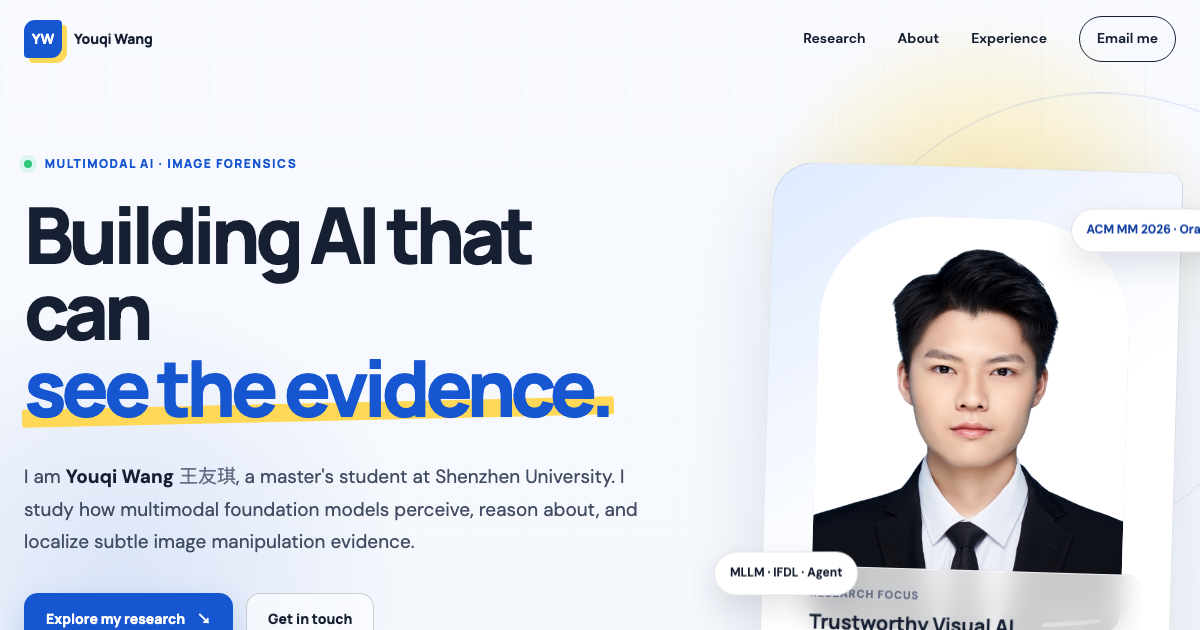
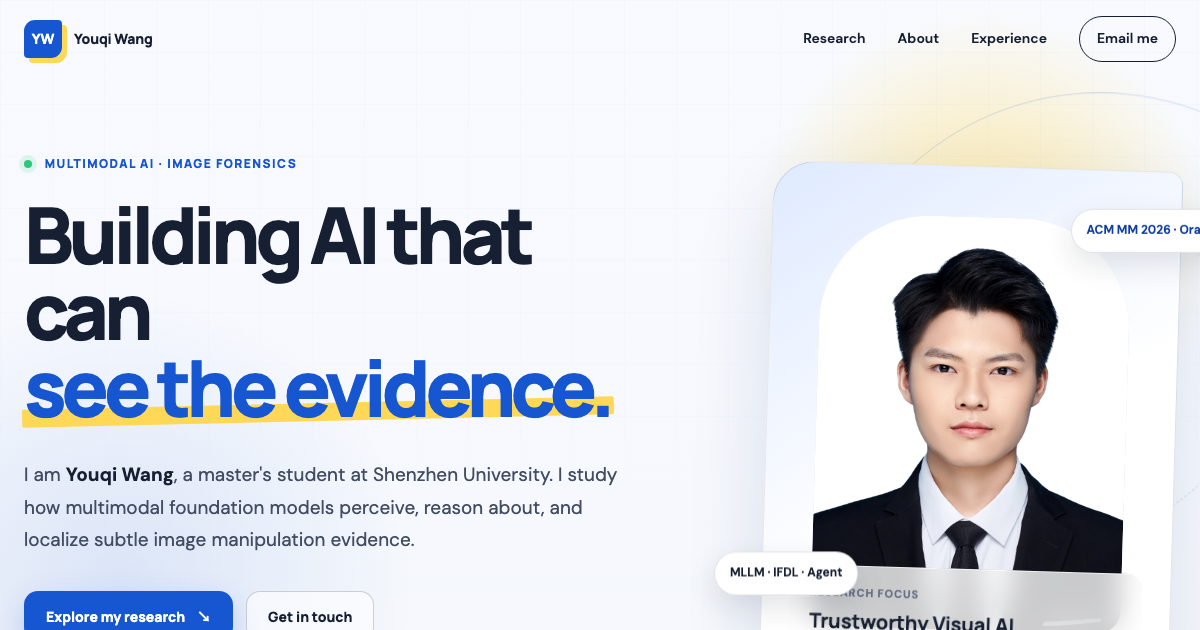
Refine horizontal research cards

diff --git a/styles.css b/styles.css
@@ -567,7 +567,7 @@ a {
 
 .project-featured {
   display: grid;
-  grid-template-columns: 1fr;
+  grid-template-columns: minmax(0, 1.08fr) minmax(390px, 0.92fr);
   border-radius: 32px 10px 32px 10px;
 }
 
@@ -619,7 +619,7 @@ a {
 }
 
 .project-media-blue {
-  min-height: 0;
+  min-height: 610px;
   padding: 34px;
   background: linear-gradient(145deg, #d9e8ff, #edf4ff);
 }
@@ -749,12 +749,8 @@ a {
 }
 
 .project-clue {
-  display: flex;
-  flex-direction: column;
-}
-
-.project-clue .project-media {
-  order: -1;
+  display: grid;
+  grid-template-columns: minmax(390px, 0.92fr) minmax(0, 1.08fr);
 }
 
 .project-clue .project-copy,
@@ -773,7 +769,7 @@ a {
 }
 
 .project-media-warm {
-  min-height: 0;
+  min-height: 470px;
   margin-top: 0;
   padding: 30px;
   background: #fff2ed;
@@ -787,12 +783,12 @@ a {
 }
 
 .project-delta {
-  display: flex;
-  flex-direction: column;
+  display: grid;
+  grid-template-columns: minmax(0, 1.08fr) minmax(390px, 0.92fr);
 }
 
 .project-media-lilac {
-  min-height: 0;
+  min-height: 500px;
   padding: 30px;
   background: #eff0ff;
 }
@@ -1252,6 +1248,22 @@ a {
 
   .section-heading > p:last-child {
     grid-column: 2;
+  }
+
+  .project-featured,
+  .project-clue,
+  .project-delta {
+    grid-template-columns: 1fr;
+  }
+
+  .project-clue .project-media {
+    order: -1;
+  }
+
+  .project-media-blue,
+  .project-media-warm,
+  .project-media-lilac {
+    min-height: 0;
   }
 
   .about-layout {

diff --git a/index.html b/index.html
@@ -72,7 +72,7 @@
               <span class="highlight">see the evidence.</span>
             </h1>
             <p class="hero-intro">
-              I am <strong>Youqi Wang</strong> <span lang="zh-CN">王友琪</span>, a master's student at
+              I am <strong>Youqi Wang</strong>, a master's student at
               Shenzhen University. I study how multimodal foundation models perceive, reason about,
               and localize subtle image manipulation evidence.
             </p>
